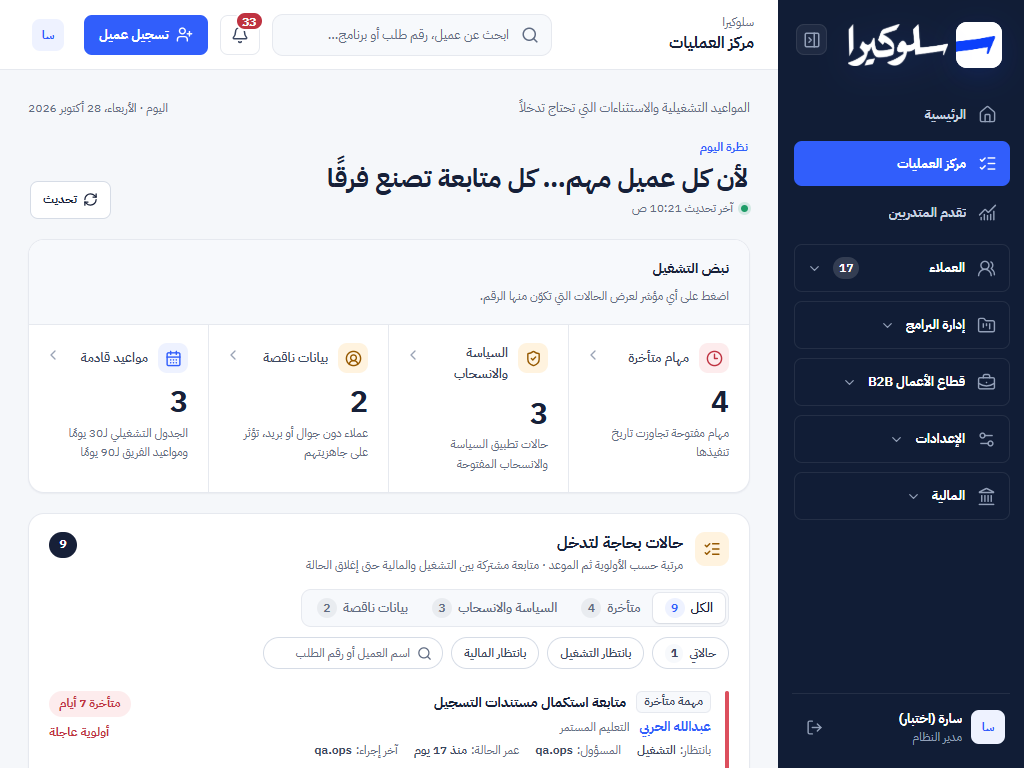
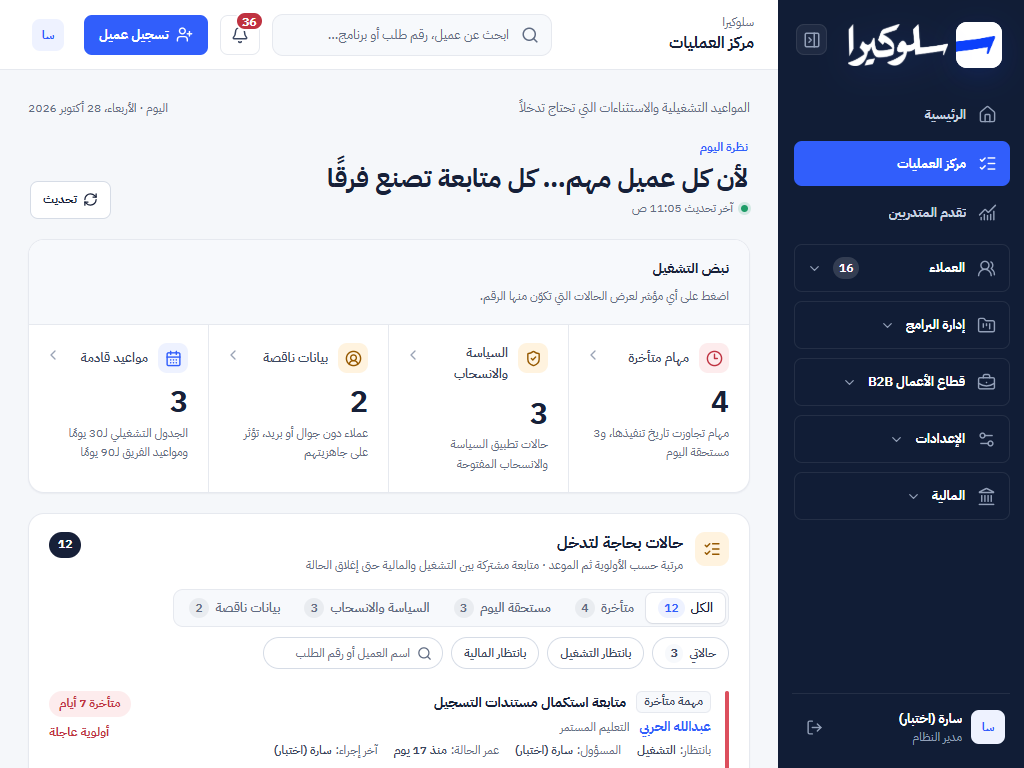
Fix dashboard figures and add due-today tasks and staff names
Each dashboard figure was recomputed from the raw tables (synthetic data) and
compared with /api/dashboard/home. All 12 now match.
- "عملاء يحتاجون متابعة" counted task entities, so a customer with two tasks
  counted twice, and it included deleted customers. It now maps each task type
  to its customer and counts distinct, non-deleted customers.
- "عملاء أضيفوا اليوم", the default month and "today" in the chart used UTC.
  They now use Riyadh dates (server) and the local date (browser).
- The trainee distribution no longer counts withdrawn enrollments or deleted
  customers.
- Refunds of deleted customers are no longer subtracted.

Operations Center (suggestions 3, 4 and 9, approved by the user):
- Show staff display names for owner and last action.
- Tasks due today join the queue as their own "مستحقة اليوم" group, with
  stats.dueToday. stats.overdue keeps its meaning.
- Cases with no customer no longer route to the removed reservations view.

diff --git a/app/page.tsx b/app/page.tsx
@@ -3051,7 +3051,7 @@ const activitySentence=(item:HomeData["activity"][number])=>{
  return (activityVerbs[item.action]||((name:string)=>`نفّذ ${name} تحديثًا في النظام`))(actor);
 };
 function HomeDashboard({onOpenTasks,onOpenCustomers,onOpenFinance,onOpenFinanceReview}:{onOpenTasks:()=>void;onOpenCustomers:()=>void;onOpenFinance:()=>void;onOpenFinanceReview:(kind:string)=>void}){
- const now=new Date(),[month,setMonth]=useState(now.toISOString().slice(0,7)),[mode,setMode]=useState<"daily"|"cumulative">("daily"),[data,setData]=useState<HomeData|null>(null),[loading,setLoading]=useState(true),[error,setError]=useState(""),[editingTarget,setEditingTarget]=useState(false),[target,setTarget]=useState(""),[weeklyDrafts,setWeeklyDrafts]=useState<Record<string,string>>({}),[savingWeek,setSavingWeek]=useState<number|null>(null),[selectedWeek,setSelectedWeek]=useState(1),[editingWeeklyTarget,setEditingWeeklyTarget]=useState(false),[activityPage,setActivityPage]=useState(0),[openTraineeGroup,setOpenTraineeGroup]=useState("aba");
+ const now=new Date(),[month,setMonth]=useState(now.toLocaleDateString("en-CA").slice(0,7)),[mode,setMode]=useState<"daily"|"cumulative">("daily"),[data,setData]=useState<HomeData|null>(null),[loading,setLoading]=useState(true),[error,setError]=useState(""),[editingTarget,setEditingTarget]=useState(false),[target,setTarget]=useState(""),[weeklyDrafts,setWeeklyDrafts]=useState<Record<string,string>>({}),[savingWeek,setSavingWeek]=useState<number|null>(null),[selectedWeek,setSelectedWeek]=useState(1),[editingWeeklyTarget,setEditingWeeklyTarget]=useState(false),[activityPage,setActivityPage]=useState(0),[openTraineeGroup,setOpenTraineeGroup]=useState("aba");
  const load=async()=>{setLoading(true);setError("");try{const result=await apiJson(`/api/dashboard/home?month=${month}`);setData(result);setTarget(String(result.finance?.target||""));setWeeklyDrafts(Object.fromEntries(Object.entries(result.finance?.weeklyTargets||{}).map(([key,value])=>[key,String(value||"")])))}catch(e){setError((e as Error).message)}finally{setLoading(false)}};
  useEffect(()=>{void load()},[month]);
  if(!data)return loading?<HomeDashboardSkeleton/>:<LiveState loading={false} error={error} empty/>;
@@ -3059,7 +3059,7 @@ function HomeDashboard({onOpenTasks,onOpenCustomers,onOpenFinance,onOpenFinanceR
  let runningSales=0,runningCollections=0;const chart=raw.map(row=>mode==="daily"?row:{...row,sales:runningSales+=row.sales,collections:runningCollections+=row.collections}),rawMax=Math.max(1,...chart.flatMap(row=>[row.sales,row.collections])),magnitude=10**Math.floor(Math.log10(rawMax)),chartMax=Math.ceil(rawMax/magnitude*2)/2*magnitude,money=(value:number)=>Number(value||0).toLocaleString("en-US",{maximumFractionDigits:2}),compactMoney=(value:number)=>value>=1000?`${Number((value/1000).toFixed(value>=10000?0:1))}K`:money(value),targetRatio=f?.target?Math.min(100,Math.round(f.sales/f.target*100)):0,activeDays=raw.filter(row=>row.sales>0||row.collections>0).length,peak=raw.reduce((best,row)=>row.sales+row.collections>best.sales+best.collections?row:best,raw[0]),chartTicks=[chartMax,chartMax*.75,chartMax*.5,chartMax*.25,0];
  const monthStart=new Date(`${month}-01T12:00:00`),firstSaturdayDay=1+(6-monthStart.getDay()+7)%7,monthEndDay=days,weekRanges:Array<{start:number;end:number}>=[];
  for(let startDay=firstSaturdayDay;startDay<=monthEndDay;startDay+=7)weekRanges.push({start:startDay,end:Math.min(startDay+5,monthEndDay)});
- const todayKey=new Date().toISOString().slice(0,10);
+ const todayKey=now.toLocaleDateString("en-CA");
  const weeklyProgress=weekRanges.map((range,index)=>{const rows=raw.filter(row=>{const day=Number(row.day.slice(-2));return day>=range.start&&day<=range.end}),actual=rows.reduce((sum,row)=>sum+row.sales,0),weekIndex=index+1,weekTarget=Number(f?.weeklyTargets?.[String(weekIndex)]||0),ratio=weekTarget?Math.round(actual/weekTarget*100):0,startKey=`${month}-${String(range.start).padStart(2,"0")}`,endKey=`${month}-${String(range.end).padStart(2,"0")}`;return {index:weekIndex,...range,actual,target:weekTarget,ratio,isCurrent:todayKey>=startKey&&todayKey<=endKey}});
  const displayedSales=mode==="daily"?(raw.find(row=>row.day===todayKey)||raw.filter(row=>row.sales||row.collections).at(-1)||raw[0]).sales:(chart.at(-1)?.sales||0),displayedCollections=mode==="daily"?(raw.find(row=>row.day===todayKey)||raw.filter(row=>row.sales||row.collections).at(-1)||raw[0]).collections:(chart.at(-1)?.collections||0),displayedTotal=displayedSales+displayedCollections;
  const selectedWeeklyProgress=weeklyProgress.find(week=>week.index===selectedWeek)||weeklyProgress[0];
@@ -3824,10 +3824,10 @@ type OperationsCenterData = {
   generatedAt: string;
   canManageEvents: boolean;
   canTakeAttentionAction: boolean;
-  stats: { upcoming: number; overdue: number; attention: number; incomplete: number };
+  stats: { upcoming: number; overdue: number; dueToday?: number; attention: number; incomplete: number };
   events: { id: string; title: string; event_date: string; event_time?: string; details?: string; audience: string }[];
   schedule: { id: string; assignment_date?: string; start_date?: string; reservation_kind: string; cohort_label?: string; status: string; customer_name: string; program_name: string }[];
-  exceptions: { id: string; order_id?: string; order_number?: string; customer_id?: string; customer_name?: string; phone?: string; email?: string; program_name?: string; purchase_source?: string; track?: string; delivery?: string; total?: number; paid?: number; title: string; department: string; due_at?: string; entity_type: string; kind: string; severity: string; priority?: string; responsible_email?: string; last_action_by_email?: string; last_action_at?: string; attention_state?: "needs_operations" | "waiting_finance" | "finance_resolved" }[];
+  exceptions: { id: string; order_id?: string; order_number?: string; customer_id?: string; customer_name?: string; phone?: string; email?: string; program_name?: string; purchase_source?: string; track?: string; delivery?: string; total?: number; paid?: number; title: string; department: string; due_at?: string; entity_type: string; kind: string; severity: string; priority?: string; responsible_email?: string; responsible_name?: string | null; last_action_by_email?: string; last_action_by_name?: string | null; last_action_at?: string; attention_state?: "needs_operations" | "waiting_finance" | "finance_resolved" }[];
 };
 
 const DAILY_OPERATIONS_MESSAGES = [
@@ -3868,7 +3868,7 @@ function dailyOperationsMessage(date = new Date()) {
   return DAILY_OPERATIONS_MESSAGES[dayNumber % DAILY_OPERATIONS_MESSAGES.length];
 }
 
-const operationsCaseKinds = [["all", "الكل"], ["overdue", "متأخرة"], ["policy", "السياسة والانسحاب"], ["data", "بيانات ناقصة"]] as const;
+const operationsCaseKinds = [["all", "الكل"], ["overdue", "متأخرة"], ["due_today", "مستحقة اليوم"], ["policy", "السياسة والانسحاب"], ["data", "بيانات ناقصة"]] as const;
 type OperationsCaseKind = (typeof operationsCaseKinds)[number][0];
 type OperationsCase = OperationsCenterData["exceptions"][number];
 function LiveWork({ onNavigate,onOpenCustomer,currentEmail = "" }: { onNavigate: (view: View) => void;onOpenCustomer:(customer:(typeof initialPeople)[number])=>void;currentEmail?:string }) {
@@ -3881,10 +3881,11 @@ function LiveWork({ onNavigate,onOpenCustomer,currentEmail = "" }: { onNavigate:
   const dateLabel = (value?: string) => value ? new Date(`${value.slice(0, 10)}T12:00:00`).toLocaleDateString("ar-SA-u-nu-latn", { weekday: "short", day: "numeric", month: "short" }) : "غير محدد";
   const timeAgo = (value?: string) => { if (!value) return "غير مسجل"; const diff = Math.max(0, Date.now() - new Date(value).getTime()), hours = Math.floor(diff / 3_600_000); return hours < 1 ? "منذ أقل من ساعة" : hours < 24 ? `منذ ${hours} ساعة` : `منذ ${Math.floor(hours / 24)} يوم`; };
   const shortEmail = (value?: string) => value ? value.split("@")[0] : "غير مسند";
+  const staffLabel = (name?: string | null, email?: string) => name || shortEmail(email);
   const waitingFor = (row: OperationsCenterData["exceptions"][number]) => row.attention_state === "waiting_finance" || row.department === "المالية" ? "المالية" : row.kind === "data" ? "التشغيل" : "التشغيل";
   const nextAction = (row: OperationsCenterData["exceptions"][number]) => row.kind === "withdrawal" ? "إكمال إجراء الانسحاب وإغلاق المتابعة" : row.kind === "policy" ? row.attention_state === "waiting_finance" ? "تحديث الحالة من المالية" : "تنفيذ الإجراء التشغيلي وتوثيقه" : row.kind === "data" ? "استكمال وسيلة التواصل الناقصة" : row.title;
   const whatsappHref = (row: OperationsCenterData["exceptions"][number]) => { const digits = String(row.phone || "").replace(/\D/g, "").replace(/^00/, ""); if (!digits) return ""; const phone = digits.startsWith("966") ? digits : digits.startsWith("0") ? `966${digits.slice(1)}` : digits; return `https://wa.me/${phone}?text=${encodeURIComponent(`مرحبًا ${row.customer_name || ""}، نتابع معك بخصوص ${row.program_name || "طلبك"}.`)}`; };
-  const routeFor = (row: OperationsCenterData["exceptions"][number]): View => row.kind === "policy" || row.department === "المالية" ? "finance" : row.entity_type === "reservation" ? "reservations" : "registration";
+  const routeFor = (row: OperationsCenterData["exceptions"][number]): View => row.kind === "policy" || row.department === "المالية" ? "finance" : "registration";
   const openCustomer=(row:OperationsCenterData["exceptions"][number])=>{if(!row.customer_id)return;onOpenCustomer({id:row.customer_id,name:row.customer_name||"عميل",phone:row.phone||"—",program:row.program_name||"—",track:row.track||"—",cohort:"—",source:row.purchase_source||"—",owner:"غير مسند",state:row.title,tone:row.severity,due:row.due_at?`مستحق ${dateLabel(row.due_at)}`:"بحاجة إلى إجراء",paid:Number(row.paid||0),total:Number(row.total||0),email:row.email||"",orderId:row.order_number||row.order_id||"—",delivery:row.delivery||""} as (typeof initialPeople)[number])};
   const takeAttentionAction = async (row: OperationsCenterData["exceptions"][number]) => {
     if (!row.order_id) return;
@@ -3898,7 +3899,7 @@ function LiveWork({ onNavigate,onOpenCustomer,currentEmail = "" }: { onNavigate:
   const dateLocale = "ar-SA-u-ca-gregory-nu-latn", dayKey = (value?: string) => String(value || "").slice(0, 10), now = new Date(), localToday = now.toLocaleDateString("en-CA"), localTomorrow = new Date(now.getFullYear(), now.getMonth(), now.getDate() + 1).toLocaleDateString("en-CA");
   const dayHeading = (day: string) => day === localToday ? "اليوم" : day === localTomorrow ? "غدًا" : new Date(`${day}T12:00:00`).toLocaleDateString(dateLocale, { weekday: "long", day: "numeric", month: "long" });
   const caseLabel = (row: OperationsCase) => row.kind === "withdrawal" ? "إجراء انسحاب" : row.kind === "policy" ? row.attention_state === "waiting_finance" ? "بانتظار تحديث المالية" : "إجراء تشغيلي مطلوب" : row.title;
-  const kindLabel = (row: OperationsCase) => row.kind === "overdue" ? "مهمة متأخرة" : row.kind === "withdrawal" ? "انسحاب" : row.kind === "policy" ? "تطبيق السياسة" : "بيانات ناقصة";
+  const kindLabel = (row: OperationsCase) => row.kind === "overdue" ? "مهمة متأخرة" : row.kind === "due_today" ? "مستحقة اليوم" : row.kind === "withdrawal" ? "انسحاب" : row.kind === "policy" ? "تطبيق السياسة" : "بيانات ناقصة";
   const kindGroup = (row: OperationsCase): OperationsCaseKind => row.kind === "withdrawal" ? "policy" : row.kind as OperationsCaseKind;
   const priorityTone = (row: OperationsCase) => row.priority === "عاجلة" ? "urgent" : row.priority === "عالية" || !row.priority ? "high" : "normal";
   const dueChip = (row: OperationsCase) => {
@@ -3907,7 +3908,7 @@ function LiveWork({ onNavigate,onOpenCustomer,currentEmail = "" }: { onNavigate:
     if (late > 0) return { label: late === 1 ? "متأخرة يومًا" : late === 2 ? "متأخرة يومين" : `متأخرة ${late} ${late <= 10 ? "أيام" : "يومًا"}`, tone: "late" };
     return late === 0 ? { label: "اليوم", tone: "today" } : { label: dateLabel(row.due_at), tone: "" };
   };
-  const priorityOrder: Record<string, number> = { "عاجلة": 0, "عالية": 1 }, kindOrder: Record<string, number> = { overdue: 0, withdrawal: 1, policy: 2 };
+  const priorityOrder: Record<string, number> = { "عاجلة": 0, "عالية": 1 }, kindOrder: Record<string, number> = { overdue: 0, due_today: 1, withdrawal: 2, policy: 3 };
   const rank = (row: OperationsCase) => [priorityOrder[row.priority || "عالية"] ?? 2, kindOrder[row.kind] ?? 3];
   const sortedCases = [...data.exceptions].sort((a, b) => { const [pa, ka] = rank(a), [pb, kb] = rank(b); return pa - pb || ka - kb || (a.due_at || "9").localeCompare(b.due_at || "9"); });
   const needle = caseQuery.trim().toLowerCase();
@@ -3920,7 +3921,7 @@ function LiveWork({ onNavigate,onOpenCustomer,currentEmail = "" }: { onNavigate:
   const scrollToPanel = (id: string) => document.getElementById(id)?.scrollIntoView({ behavior: window.matchMedia("(prefers-reduced-motion: reduce)").matches ? "auto" : "smooth", block: "start" });
   const focusQueue = (next: OperationsCaseKind) => { clearFilters(); setKind(next); scrollToPanel("oc-queue"); };
   // The API caps each case query at 50 rows; say so instead of implying the list is complete.
-  const capped = [data.stats.overdue, data.stats.attention, data.stats.incomplete].some((count) => count >= 50);
+  const capped = [data.stats.overdue + (data.stats.dueToday || 0), data.stats.attention, data.stats.incomplete].some((count) => count >= 50);
   const agenda = [
     ...data.events.map((item) => ({ id: `event-${item.id}`, day: dayKey(item.event_date), type: "event" as const, title: item.title, detail: item.details || "موعد للفريق", extra: "", time: item.event_time || "طوال اليوم", tag: "موعد فريق" })),
     ...data.schedule.map((item) => ({ id: `schedule-${item.id}`, day: dayKey(item.assignment_date || item.start_date), type: "schedule" as const, title: item.program_name, detail: `${item.customer_name} · ${item.reservation_kind}${item.cohort_label ? ` · ${item.cohort_label}` : ""}`, extra: item.assignment_date && item.start_date ? `بداية البرنامج ${dateLabel(item.start_date)}` : "", time: item.assignment_date ? "موعد الإسناد" : "بداية البرنامج", tag: item.status })),
@@ -3935,7 +3936,7 @@ function LiveWork({ onNavigate,onOpenCustomer,currentEmail = "" }: { onNavigate:
     <section className="oh-pulse oc-pulse" aria-labelledby="oc-pulse-title">
       <header><h3 id="oc-pulse-title">نبض التشغيل</h3><p>اضغط على أي مؤشر لعرض الحالات التي تكوّن منها الرقم.</p></header>
       <div>
-        <HomeMetric icon={Clock3} label="مهام متأخرة" value={data.stats.overdue} note="مهام مفتوحة تجاوزت تاريخ تنفيذها" tone={data.stats.overdue ? "danger" : "neutral"} onClick={() => focusQueue("overdue")} />
+        <HomeMetric icon={Clock3} label="مهام متأخرة" value={data.stats.overdue} note={data.stats.dueToday ? `مهام تجاوزت تاريخ تنفيذها، و${data.stats.dueToday} مستحقة اليوم` : "مهام مفتوحة تجاوزت تاريخ تنفيذها"} tone={data.stats.overdue ? "danger" : "neutral"} onClick={() => focusQueue("overdue")} />
         <HomeMetric icon={ShieldCheck} label="السياسة والانسحاب" value={data.stats.attention} note="حالات تطبيق السياسة والانسحاب المفتوحة" tone={data.stats.attention ? "attention" : "neutral"} onClick={() => focusQueue("policy")} />
         <HomeMetric icon={CircleUserRound} label="بيانات ناقصة" value={data.stats.incomplete} note="عملاء دون جوال أو بريد، تؤثر على جاهزيتهم" tone={data.stats.incomplete ? "attention" : "neutral"} onClick={() => focusQueue("data")} />
         <HomeMetric icon={CalendarDays} label="مواعيد قادمة" value={data.stats.upcoming} note="الجدول التشغيلي لـ30 يومًا ومواعيد الفريق لـ90 يومًا" tone="brand" onClick={() => scrollToPanel("oc-agenda")} />
@@ -3961,7 +3962,7 @@ function LiveWork({ onNavigate,onOpenCustomer,currentEmail = "" }: { onNavigate:
                 <p className="oc-case-head"><span className="oc-kind">{kindLabel(item)}</span><b>{caseLabel(item)}</b></p>
                 <p className="oc-case-who">{item.customer_id ? <button type="button" className="exception-customer" onClick={(event) => { event.stopPropagation(); openCustomer(item); }}>{item.customer_name || "عميل"}</button> : <span>{item.customer_name || "إجراء داخلي"}</span>}<span>{[item.program_name, item.order_number].filter(Boolean).join(" · ") || "ملف العميل"}</span></p>
                 {nextAction(item) !== caseLabel(item) && <p className="oc-next"><small>الإجراء التالي</small>{nextAction(item)}</p>}
-                <dl className="oc-meta"><div><dt>بانتظار</dt><dd>{waitingFor(item)}</dd></div><div><dt>المسؤول</dt><dd>{shortEmail(item.responsible_email)}</dd></div><div><dt>عمر الحالة</dt><dd>{timeAgo(item.last_action_at)}</dd></div><div><dt>آخر إجراء</dt><dd>{item.last_action_by_email ? shortEmail(item.last_action_by_email) : "لم يسجل"}</dd></div></dl>
+                <dl className="oc-meta"><div><dt>بانتظار</dt><dd>{waitingFor(item)}</dd></div><div><dt>المسؤول</dt><dd>{staffLabel(item.responsible_name, item.responsible_email)}</dd></div><div><dt>عمر الحالة</dt><dd>{timeAgo(item.last_action_at)}</dd></div><div><dt>آخر إجراء</dt><dd>{item.last_action_by_email ? staffLabel(item.last_action_by_name, item.last_action_by_email) : "لم يسجل"}</dd></div></dl>
               </div>
               <div className="oc-case-side"><em className={`oc-due ${due.tone}`}>{due.label}</em><span className="oc-priority">أولوية {item.priority || "عالية"}</span></div>
               <div className="oc-actions">

diff --git a/app/api/dashboard/home/route.ts b/app/api/dashboard/home/route.ts
@@ -7,17 +7,27 @@ export async function GET(req:Request){
   const auth=await authorize(req,["sales","finance","academy","viewer"]);if(!auth.ok)return auth.response;
   const db=operationalDb();await ensureFinanceClassificationSchema(db);
   await db.prepare("CREATE TABLE IF NOT EXISTS withdrawals(id TEXT PRIMARY KEY,order_id TEXT NOT NULL UNIQUE,reason TEXT NOT NULL,withdrawn_at TEXT NOT NULL,gross_paid REAL NOT NULL,non_refundable_amount REAL NOT NULL DEFAULT 0,refund_amount REAL NOT NULL DEFAULT 0,refund_source TEXT NOT NULL,refund_method TEXT NOT NULL,reference TEXT NOT NULL,status TEXT NOT NULL DEFAULT 'مكتمل',created_by_email TEXT NOT NULL,created_at TEXT NOT NULL)").run();
-  const requested=new URL(req.url).searchParams.get("month")||new Date().toISOString().slice(0,7);
-  const month=/^\d{4}-\d{2}$/.test(requested)?requested:new Date().toISOString().slice(0,7);
-  const today=new Date().toISOString().slice(0,10),canSeeFinance=auth.roles.includes("admin")||auth.roles.includes("finance")||can(auth,"finance.view"),isAdmin=auth.roles.includes("admin");
+  // Business dates are Riyadh (UTC+3), matching the date('now','+3 hours') used by the other routes.
+  const riyadhMonth=new Date(Date.now()+3*3600_000).toISOString().slice(0,7);
+  const requested=new URL(req.url).searchParams.get("month")||riyadhMonth;
+  const month=/^\d{4}-\d{2}$/.test(requested)?requested:riyadhMonth;
+  const canSeeFinance=auth.roles.includes("admin")||auth.roles.includes("finance")||can(auth,"finance.view"),isAdmin=auth.roles.includes("admin");
   const taskScope=isAdmin?"":"AND assignee_email=?";
   const taskQuery=db.prepare(`SELECT id,title,department,priority,due_at FROM workflow_tasks WHERE status!='مكتملة' ${taskScope} ORDER BY CASE priority WHEN 'عاجلة' THEN 0 WHEN 'عالية' THEN 1 ELSE 2 END,due_at LIMIT 6`);
-  const pendingQuery=db.prepare(`SELECT COUNT(DISTINCT entity_id) count FROM workflow_tasks WHERE status!='مكتملة' ${taskScope}`);
+  // Count customers, not task entities: one customer can have open tasks on an enrollment, a payment and a reservation.
+  const pendingQuery=db.prepare(`SELECT COUNT(DISTINCT x.customer_id) count FROM (SELECT CASE entity_type
+      WHEN 'customer' THEN entity_id
+      WHEN 'enrollment' THEN (SELECT e.customer_id FROM enrollments e WHERE e.id=entity_id)
+      WHEN 'payment' THEN (SELECT o.customer_id FROM payments py JOIN orders o ON o.id=py.order_id WHERE py.id=entity_id)
+      WHEN 'reservation' THEN (SELECT r.customer_id FROM seat_reservations r WHERE r.id=entity_id)
+      WHEN 'reservation_transfer' THEN (SELECT r.customer_id FROM reservation_transfers rt JOIN seat_reservations r ON r.id=rt.from_reservation_id WHERE rt.id=entity_id)
+      WHEN 'trial' THEN (SELECT t.customer_id FROM program_trials t WHERE t.id=entity_id)
+    END customer_id FROM workflow_tasks WHERE status!='مكتملة' ${taskScope}) x JOIN customers c ON c.id=x.customer_id WHERE c.deleted_at IS NULL`);
   const [account,tasks,pendingCustomers,customers,totalCustomers,journey,activity,traineeRows]=await Promise.all([
     db.prepare("SELECT display_name FROM staff_accounts WHERE email=?").bind(auth.email).first<{display_name:string}>(),
     (isAdmin?taskQuery:taskQuery.bind(auth.email)).all(),
     (isAdmin?pendingQuery:pendingQuery.bind(auth.email)).first(),
-    db.prepare("SELECT COUNT(*) count FROM customers WHERE substr(created_at,1,10)=? AND deleted_at IS NULL").bind(today).first(),
+    db.prepare("SELECT COUNT(*) count FROM customers WHERE date(created_at,'+3 hours')=date('now','+3 hours') AND deleted_at IS NULL").first(),
     db.prepare("SELECT COUNT(*) count FROM customers WHERE deleted_at IS NULL").first(),
     db.prepare("SELECT status,COUNT(*) count FROM enrollments GROUP BY status ORDER BY MIN(created_at)").all(),
     db.prepare(`SELECT a.id,a.action,a.entity_type,a.entity_id,a.actor_email,a.created_at,s.display_name actor_name,
@@ -34,7 +44,8 @@ export async function GET(req:Request){
       END subject_name
       FROM audit_log a LEFT JOIN staff_accounts s ON s.email=a.actor_email ORDER BY a.created_at DESC LIMIT 10`).all(),
     db.prepare(`SELECT p.name program_name,COALESCE(NULLIF(o.track,''),'غير محدد') detail,COUNT(DISTINCT e.customer_id) count
-      FROM enrollments e JOIN programs p ON p.id=e.program_id JOIN orders o ON o.id=e.order_id
+      FROM enrollments e JOIN programs p ON p.id=e.program_id JOIN orders o ON o.id=e.order_id JOIN customers c ON c.id=e.customer_id
+      WHERE c.deleted_at IS NULL AND e.status!='منسحب'
       GROUP BY p.name,COALESCE(NULLIF(o.track,''),'غير محدد') ORDER BY count DESC,p.name`).all(),
   ]);
   const traineeGroups=[
@@ -68,7 +79,7 @@ export async function GET(req:Request){
         FROM orders o JOIN customers c ON c.id=o.customer_id
         WHERE c.deleted_at IS NULL AND o.finance_review_status='pending'
         GROUP BY kind`).all(),
-      db.prepare("SELECT withdrawn_at day,COALESCE(SUM(CASE WHEN refund_source='sale' THEN refund_amount ELSE 0 END),0) sales_refunds,COALESCE(SUM(CASE WHEN refund_source='collection' THEN refund_amount ELSE 0 END),0) collection_refunds FROM withdrawals WHERE status='مكتمل' AND substr(withdrawn_at,1,7)=? GROUP BY withdrawn_at ORDER BY withdrawn_at").bind(month).all(),
+      db.prepare("SELECT w.withdrawn_at day,COALESCE(SUM(CASE WHEN w.refund_source='sale' THEN w.refund_amount ELSE 0 END),0) sales_refunds,COALESCE(SUM(CASE WHEN w.refund_source='collection' THEN w.refund_amount ELSE 0 END),0) collection_refunds FROM withdrawals w JOIN orders o ON o.id=w.order_id JOIN customers c ON c.id=o.customer_id WHERE c.deleted_at IS NULL AND w.status='مكتمل' AND substr(w.withdrawn_at,1,7)=? GROUP BY w.withdrawn_at ORDER BY w.withdrawn_at").bind(month).all(),
     ]);
     const dailyMap=new Map<string,{day:string;sales:number;collections:number}>();for(const row of flows.results)dailyMap.set(String(row.day),{day:String(row.day),sales:num(row.sales),collections:num(row.collections)});for(const row of refunds.results){const day=String(row.day),entry=dailyMap.get(day)||{day,sales:0,collections:0};entry.sales-=num(row.sales_refunds);entry.collections-=num(row.collection_refunds);dailyMap.set(day,entry)}const daily=[...dailyMap.values()].sort((a,b)=>a.day.localeCompare(b.day));
     const grossSales=flows.results.reduce((sum,row)=>sum+num(row.sales),0),grossCollections=flows.results.reduce((sum,row)=>sum+num(row.collections),0),salesRefunds=refunds.results.reduce((sum,row)=>sum+num(row.sales_refunds),0),collectionRefunds=refunds.results.reduce((sum,row)=>sum+num(row.collection_refunds),0),sales=grossSales-salesRefunds,collections=grossCollections-collectionRefunds,contractValue=num((contracts as Record<string,unknown>)?.value);

diff --git a/app/api/operations-center/route.ts b/app/api/operations-center/route.ts
@@ -14,7 +14,7 @@ export async function GET(req: Request) {
   const canSeeFinance = auth.roles.includes("admin") || auth.roles.includes("finance") || can(auth, "finance.view");
   const canTakeAttentionAction = auth.roles.includes("academy");
   const financeFilter = canSeeFinance ? "" : "AND t.department!='المالية'";
-  const [schedule, events, overdue, attention, incomplete] = await Promise.all([
+  const [schedule, events, overdue, attention, incomplete, staff] = await Promise.all([
     db.prepare(`SELECT r.id,r.assignment_date,r.start_date,r.reservation_kind,r.cohort_label,r.status,c.name customer_name,p.name program_name
       FROM seat_reservations r JOIN customers c ON c.id=r.customer_id JOIN programs p ON p.id=r.program_id
       WHERE r.converted_enrollment_id IS NULL AND r.status IN ('مؤكد','بانتظار البدء','بانتظار الإسناد')
@@ -23,6 +23,7 @@ export async function GET(req: Request) {
       ORDER BY COALESCE(r.assignment_date,r.start_date),r.start_date LIMIT 100`).all(),
     db.prepare("SELECT * FROM team_events WHERE date(event_date) BETWEEN date('now','+3 hours') AND date('now','+3 hours','+90 days') ORDER BY event_date,event_time LIMIT 200").all<Record<string, unknown>>(),
     db.prepare(`SELECT t.id,t.title,t.department,t.due_at,t.entity_type,t.priority,t.assignee_email responsible_email,t.created_by_email last_action_by_email,t.created_at last_action_at,
+      CASE WHEN date(t.due_at)<date('now','+3 hours') THEN 'overdue' ELSE 'due_today' END task_state,
       CASE WHEN t.entity_type='enrollment' THEN (SELECT e.customer_id FROM enrollments e WHERE e.id=t.entity_id) WHEN t.entity_type='reservation' THEN (SELECT r.customer_id FROM seat_reservations r WHERE r.id=t.entity_id) WHEN t.entity_type='payment' THEN (SELECT o.customer_id FROM payments py JOIN orders o ON o.id=py.order_id WHERE py.id=t.entity_id) END customer_id,
       CASE WHEN t.entity_type='enrollment' THEN (SELECT e.order_id FROM enrollments e WHERE e.id=t.entity_id) WHEN t.entity_type='reservation' THEN (SELECT r.order_id FROM seat_reservations r WHERE r.id=t.entity_id) WHEN t.entity_type='payment' THEN (SELECT py.order_id FROM payments py WHERE py.id=t.entity_id) END order_id,
       CASE WHEN t.entity_type='enrollment' THEN (SELECT c.name FROM enrollments e JOIN customers c ON c.id=e.customer_id WHERE e.id=t.entity_id)
@@ -37,7 +38,7 @@ export async function GET(req: Request) {
       CASE WHEN t.entity_type='enrollment' THEN (SELECT p.name FROM enrollments e JOIN programs p ON p.id=e.program_id WHERE e.id=t.entity_id)
            WHEN t.entity_type='reservation' THEN (SELECT p.name FROM seat_reservations r JOIN programs p ON p.id=r.program_id WHERE r.id=t.entity_id)
            WHEN t.entity_type='payment' THEN (SELECT p.name FROM payments py JOIN orders o ON o.id=py.order_id LEFT JOIN programs p ON p.id=o.program_id WHERE py.id=t.entity_id) END program_name
-      FROM workflow_tasks t WHERE t.status!='مكتملة' AND t.due_at IS NOT NULL AND date(t.due_at)<date('now','+3 hours') ${financeFilter}
+      FROM workflow_tasks t WHERE t.status!='مكتملة' AND t.due_at IS NOT NULL AND date(t.due_at)<=date('now','+3 hours') ${financeFilter}
       ORDER BY t.due_at LIMIT 50`).all(),
     db.prepare(`SELECT CASE WHEN w.id IS NOT NULL THEN 'withdrawal-' ELSE 'policy-' END||o.id id,o.id order_id,c.id customer_id,c.name customer_name,c.phone,c.email,p.name program_name,o.order_number,o.purchase_source,o.track,o.delivery,o.total,o.paid,
       CASE WHEN w.id IS NOT NULL THEN 'العميل منسحب' ELSE 'تطبيق السياسة' END title,'المالية' department,NULL due_at,
@@ -54,12 +55,16 @@ export async function GET(req: Request) {
       FROM enrollments e JOIN customers c ON c.id=e.customer_id JOIN programs p ON p.id=e.program_id
       JOIN orders o ON o.id=e.order_id
       WHERE e.status!='مكتمل' AND (trim(COALESCE(c.phone,''))='' OR trim(COALESCE(c.email,''))='') ORDER BY e.updated_at LIMIT 50`).all(),
+    db.prepare("SELECT email,display_name FROM staff_accounts WHERE COALESCE(display_name,'')!=''").all<{ email: string; display_name: string }>(),
   ]);
+  const staffNames = new Map(staff.results.map((row: { email: string; display_name: string }) => [row.email, row.display_name]));
+  const withNames = (row: Record<string, unknown>) => ({ ...row, responsible_name: staffNames.get(String(row.responsible_email || "")) || null, last_action_by_name: staffNames.get(String(row.last_action_by_email || "")) || null });
+  const dueToday = overdue.results.filter((row: Record<string, unknown>) => row.task_state === "due_today").length;
   const exceptions = [
-    ...overdue.results.map((row) => ({ ...row, kind: "overdue", severity: "red" })),
+    ...overdue.results.map((row) => ({ ...row, kind: row.task_state === "due_today" ? "due_today" : "overdue", severity: row.task_state === "due_today" ? "amber" : "red" })),
     ...attention.results.map((row) => ({ ...row, kind: row.entity_type === "withdrawal" ? "withdrawal" : "policy", severity: row.entity_type === "withdrawal" ? "red" : row.attention_state === "finance_resolved" ? "green" : "red" })),
     ...incomplete.results.map((row) => ({ ...row, kind: "data", severity: "amber" })),
-  ];
+  ].map(withNames);
   const visibleEvents = events.results.filter((row) => {
     const audience = String(row.audience || "all").split(",");
     return auth.roles.includes("admin") || audience.includes("all") || auth.roles.some((role) => audience.includes(role));
@@ -73,7 +78,8 @@ export async function GET(req: Request) {
     canTakeAttentionAction,
     stats: {
       upcoming: schedule.results.length + visibleEvents.length,
-      overdue: overdue.results.length,
+      overdue: overdue.results.length - dueToday,
+      dueToday,
       attention: attention.results.length,
       incomplete: incomplete.results.length,
     },

diff --git a/docs/dashboard-redesign/PHASE-1-OPERATIONS-CENTER.md b/docs/dashboard-redesign/PHASE-1-OPERATIONS-CENTER.md
@@ -93,6 +93,35 @@ These need API, permission or product changes, which are outside this phase's ru
    which is no longer rendered (blank page).
 10. **Dead code:** `LegacyLiveWork` isn't used anywhere. Remove it in Phase 7.
 
+## Follow-up approved by the user (separate commit)
+
+The user approved suggestions 3, 4 and 9, and asked for a check that every dashboard figure is wired
+correctly.
+
+**Operations Center**
+- **#3 Names:** the API attaches `responsible_name` and `last_action_by_name` from `staff_accounts.display_name`.
+  The queue shows "ريم" instead of `academy.qa`, and falls back to the email prefix when no name is set.
+- **#4 Due today:** open tasks due today now come back with `kind: "due_today"`. They get their own segment
+  ("مستحقة اليوم") and are counted in `stats.dueToday`. `stats.overdue` still counts overdue tasks only.
+- **#9 Dead route:** cases with no customer no longer route to the removed `reservations` view.
+
+**Dashboard (`/api/dashboard/home`)**: each figure was recomputed in JS from the raw synthetic tables and
+compared with the API. All 12 match after these fixes:
+
+| Figure | Problem | Fix |
+|---|---|---|
+| عملاء يحتاجون متابعة | Counted distinct task *entities* (enrollment, payment, reservation…), so one customer with two tasks counted twice. It also included deleted customers, although the note says they're excluded | Maps every task type to its customer and counts distinct, non-deleted customers. Synthetic check: 17 (the old query gave 20) |
+| عملاء أضيفوا اليوم | Used the UTC date, so "today" started at 03:00 Riyadh | `date(created_at,'+3 hours')=date('now','+3 hours')`, like the other routes |
+| Default month, "today" in the chart and weeks | UTC on server and client | Riyadh month on the server, local date in the browser |
+| توزيع المتدربين | Counted withdrawn enrollments and deleted customers as trainees | Excludes `منسحب` enrollments and deleted customers |
+| Refunds | Subtracted refunds of deleted customers, whose payments aren't counted | Same deleted-customer filter as payments |
+
+Matched with no change: total customers, net sales, net collections, cash total, order count, contract value,
+remaining, pending review, and the daily chart summing to net sales.
+
+Not changed: the Finance module still uses UTC for its own month and "today" (`LiveFinance`). That belongs to Phase 4.
+Suggestion #8 (one window for upcoming items) still needs the user's choice.
+
 ## Known limits
 
 - The synthetic seed had no events, policy cases or incomplete-data cases. A local-only add-on script inserted

diff --git a/docs/dashboard-redesign/HANDOFF.md b/docs/dashboard-redesign/HANDOFF.md
@@ -32,7 +32,7 @@ Read first: [README.md](README.md) (what changed, preservation checks, phase pla
 
 | Check | Baseline on this branch |
 |---|---|
-| `npm test` | 80 / 80 (82 / 82 on `design/phase-0-shell` after Phase 1) |
+| `npm test` | 80 / 80 (86 / 86 on `design/phase-0-shell` after Phase 1 and its fixes) |
 | `npx eslint app/page.tsx` | 30 errors, 32 warnings (all pre-existing) |
 | `npx tsc --noEmit` errors in `page.tsx` | 20 (pre-existing) |
 
